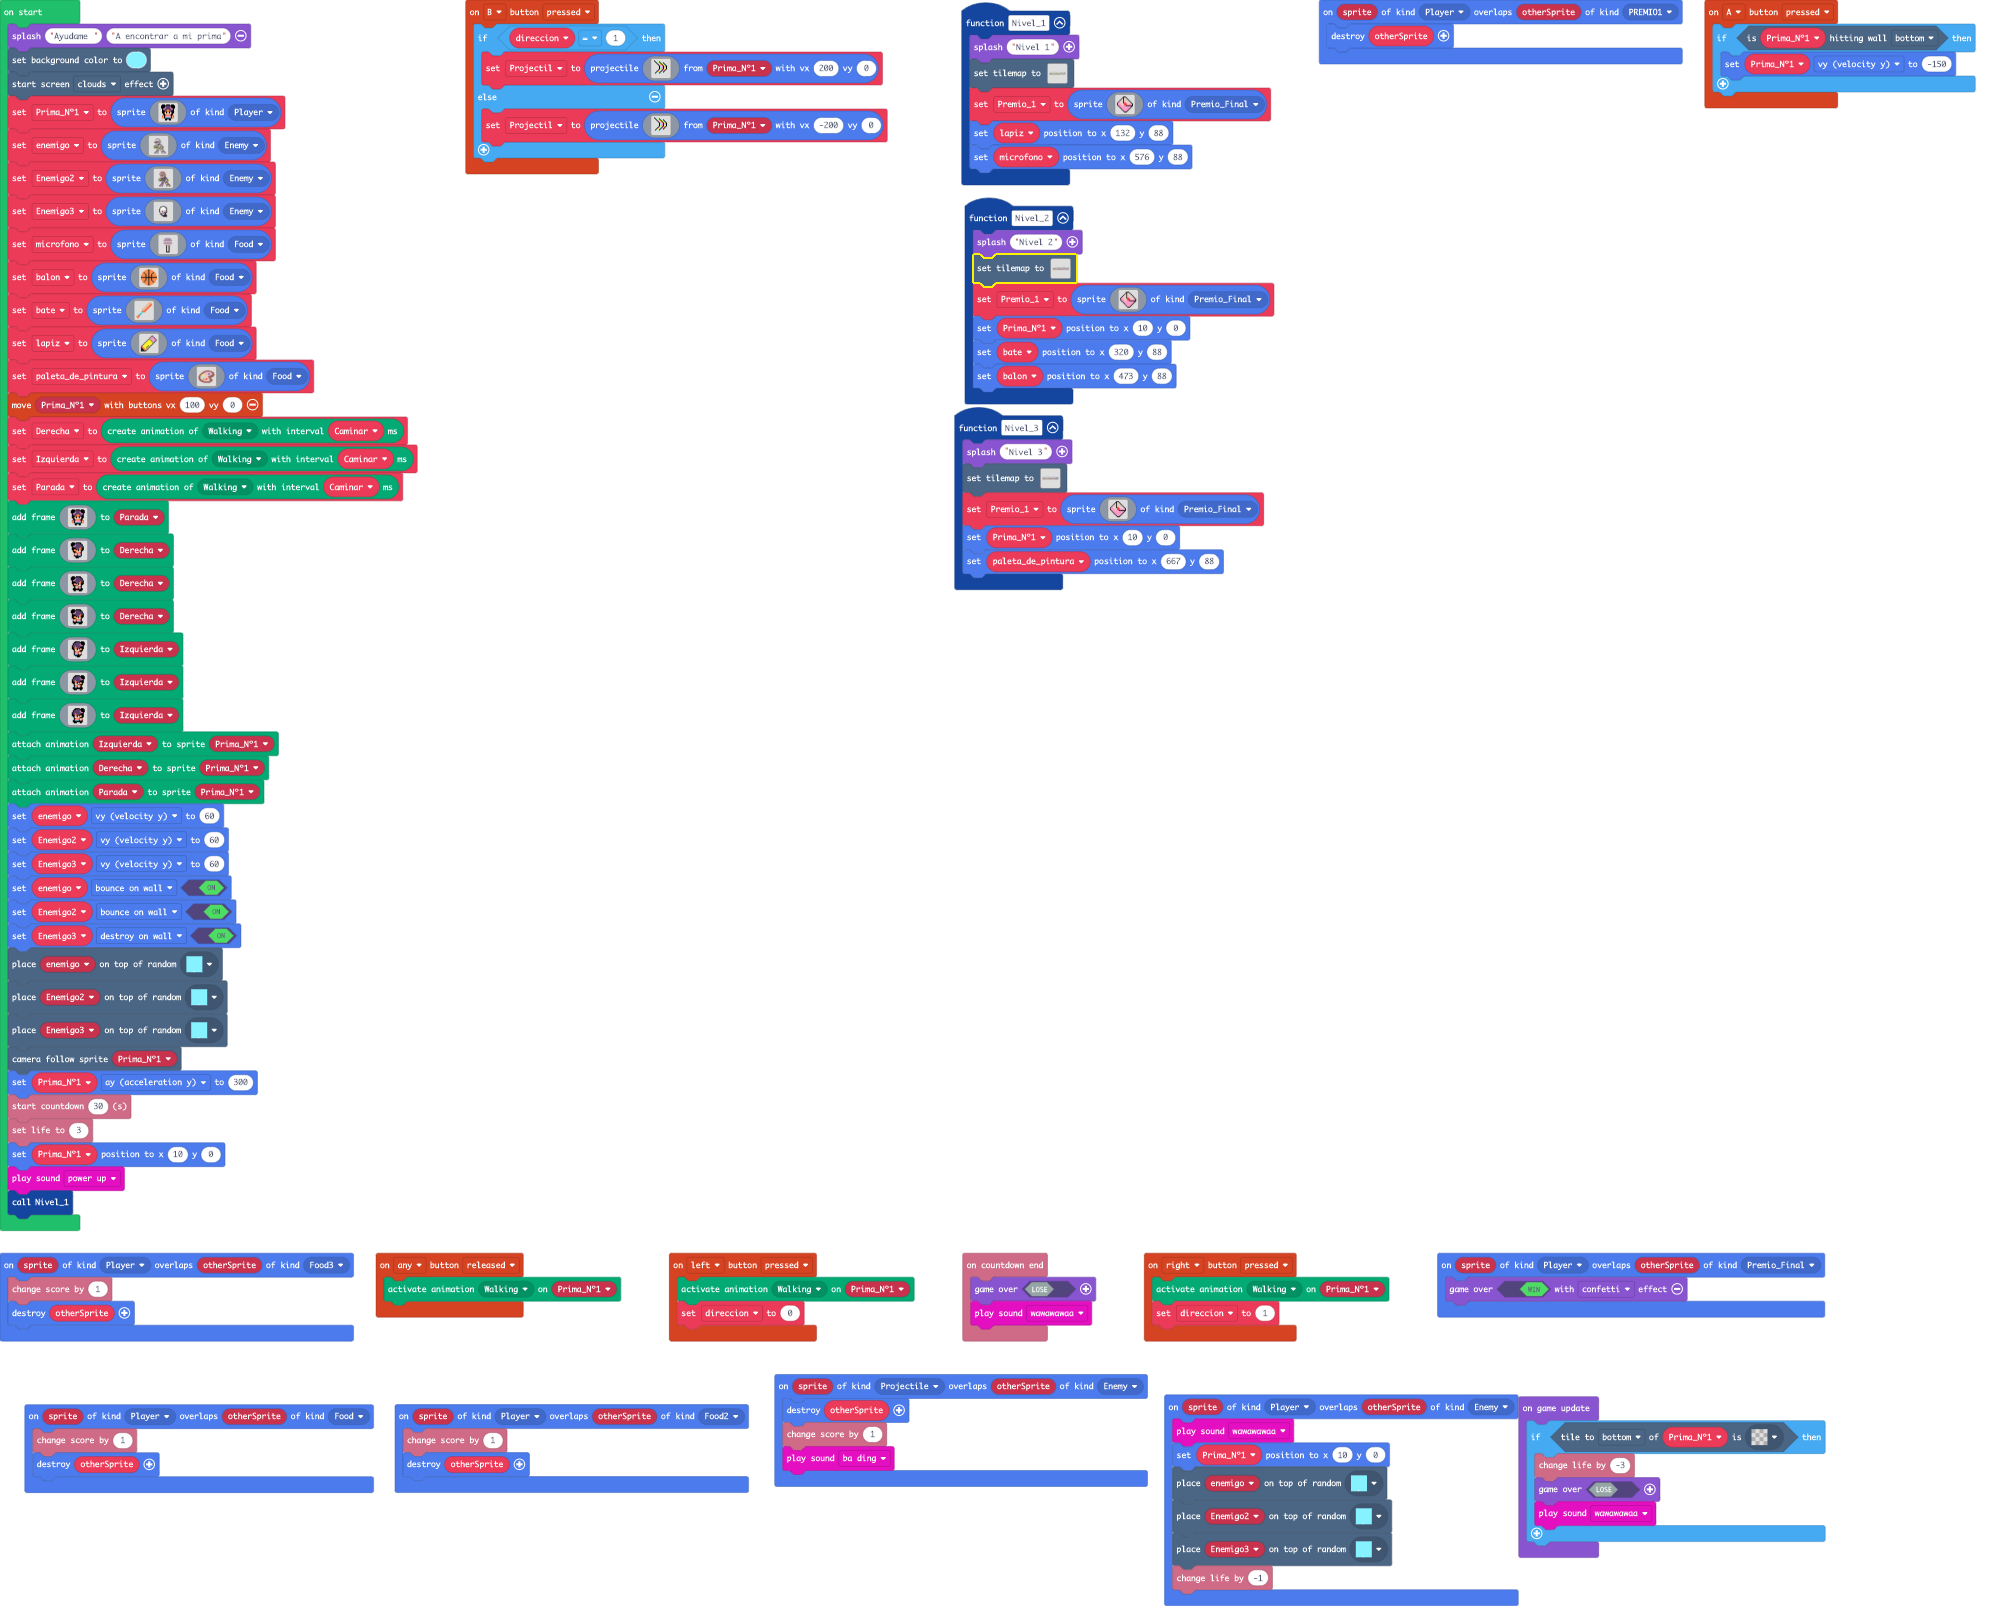
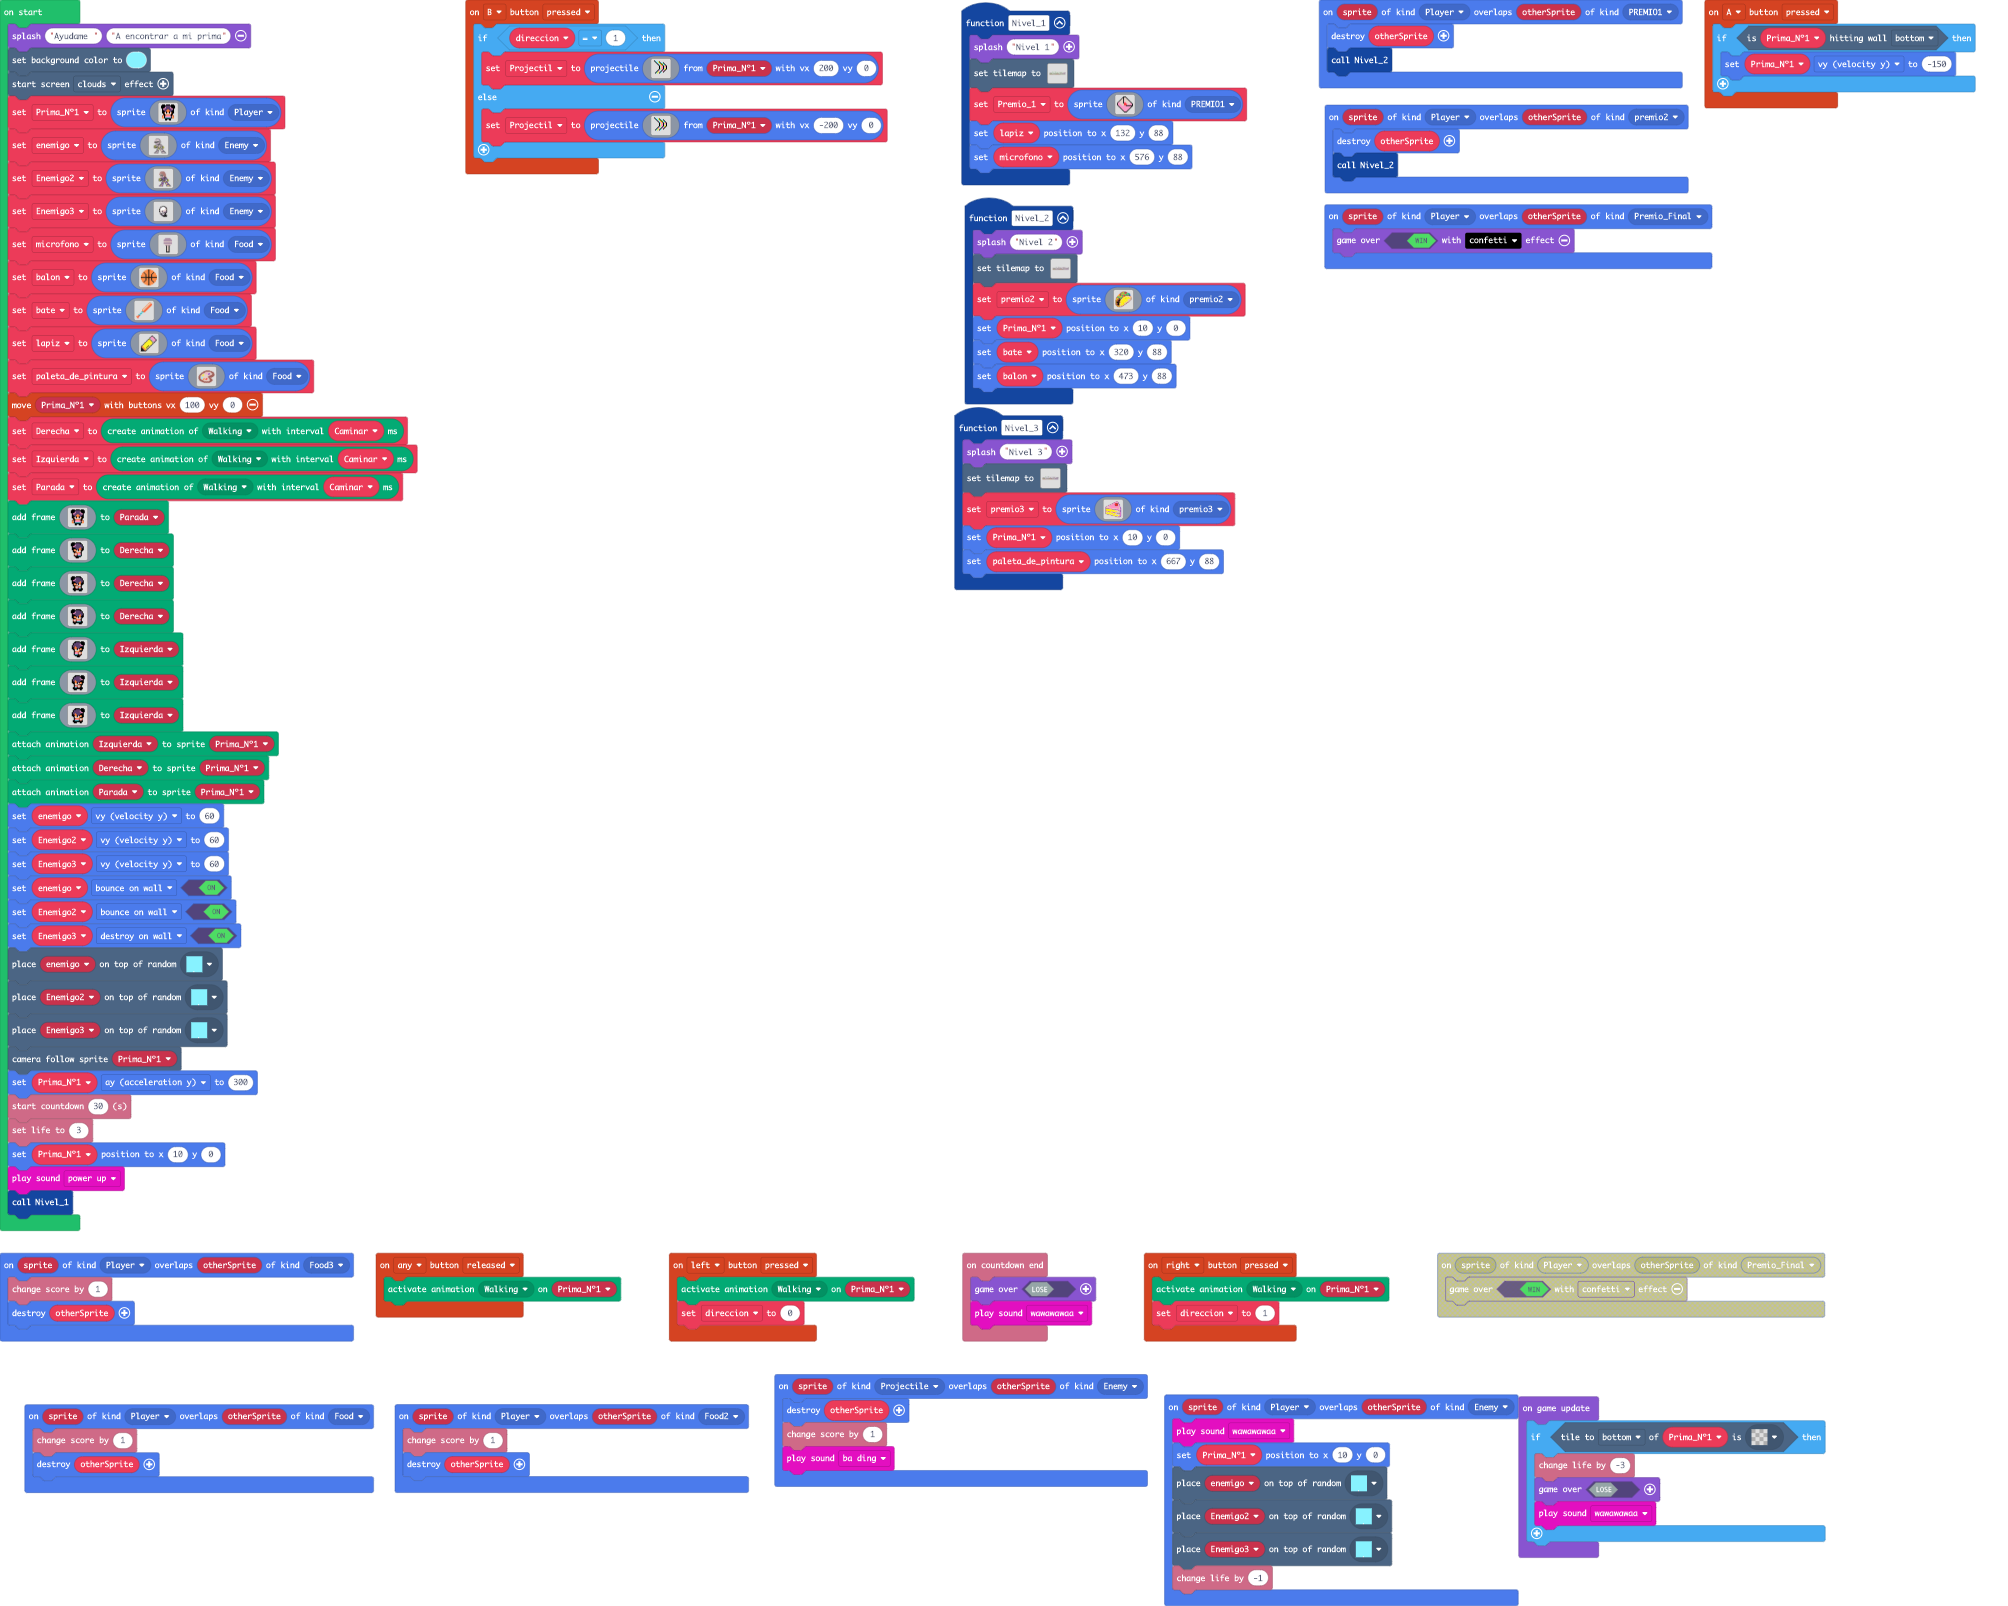
Update main.blocks, main.ts

diff --git a/main.ts b/main.ts
@@ -12,6 +12,8 @@ namespace SpriteKind {
     export const PREMIO1 = SpriteKind.create()
     export const Food2 = SpriteKind.create()
     export const Food3 = SpriteKind.create()
+    export const premio2 = SpriteKind.create()
+    export const premio3 = SpriteKind.create()
 }
 function Nivel_3 () {
     game.splash("Nivel 3")
@@ -29,26 +31,40 @@ function Nivel_3 () {
         2 2 2 2 2 2 2 2 2 2 2 2 2 2 2 2 2 2 2 2 2 2 2 2 2 2 2 2 2 2 2 2 2 2 2 2 2 2 2 2 2 2 2 2 2 . . . . . . . . . . . . . . 2 
         2 2 2 2 2 2 2 2 2 2 2 2 2 2 2 2 2 2 2 2 2 2 2 2 2 2 2 2 2 2 2 2 2 2 2 2 2 2 2 2 2 2 2 2 2 2 2 2 2 2 2 2 2 2 2 2 2 2 2 2 
         `, [myTiles.transparency16,myTiles.tile2,myTiles.tile3,myTiles.tile6,sprites.builtin.brick,sprites.dungeon.hazardSpike,myTiles.tile10,myTiles.tile11,myTiles.tile15,myTiles.tile16,myTiles.tile18,myTiles.tile20,myTiles.tile21,myTiles.tile17,myTiles.tile22,myTiles.tile23,myTiles.tile19,myTiles.tile24,myTiles.tile26,myTiles.tile28,myTiles.tile30,sprites.castle.rock0,myTiles.tile31,myTiles.tile9,myTiles.tile12,myTiles.tile13,myTiles.tile14,sprites.dungeon.darkGroundCenter], TileScale.Sixteen))
-    Premio_1 = sprites.create(img`
-        . . . . . . . f f f . . . . . . . . 
-        . . . . . . f f d d f . . . . . . . 
-        . . . . . f d f d d d f . . . . . . 
-        . . . . f d d f d d d d f . . . . . 
-        . . . f d d d f d d d d d f . . . . 
-        . . f d d d d f d d d d d d f . . . 
-        . f 3 d d d d f 3 3 d d d d d f . . 
-        f 3 3 d d d d f 2 2 3 d d d d 3 f . 
-        f 3 3 3 d d d d 2 2 2 3 d d d 3 3 f 
-        f 3 3 3 3 d d d 2 2 2 3 3 3 3 3 3 f 
-        . f 3 3 3 3 d 3 3 3 f f f f f f f f 
-        . . f 3 3 3 3 3 3 3 3 3 3 3 3 3 f . 
-        . . . f 3 3 3 3 3 3 3 3 3 3 3 f . . 
-        . . . . f 3 3 3 3 3 3 3 3 3 f . . . 
-        . . . . . f 3 3 3 3 3 3 3 f . . . . 
-        . . . . . . f 3 3 3 3 3 f . . . . . 
-        . . . . . . . f 3 3 3 f . . . . . . 
-        . . . . . . . . f f f . . . . . . . 
-        `, SpriteKind.Premio_Final)
+    premio3 = sprites.create(img`
+        . . . . . . . . . . . . . . . . . . . . . . b b b . . . . . . . 
+        . . . . . . . . . . . . . . . . . . . . b b 3 3 3 b . . . . . . 
+        . . . . . . . . . . . . . . . . . b b b 3 3 3 d 3 3 b . . . . . 
+        . . . . . . . . . . . . . . . . b b 3 3 3 3 3 3 d 3 a . . . . . 
+        . . . . . . . . . . . . . . b b 3 3 3 3 2 e e e e d b a . . . . 
+        . . . . . . . . . . . . b b b 3 3 3 3 2 3 e e e 2 e 3 a . . . . 
+        . . . . . . . . . . b b d 3 3 3 3 3 3 e 2 2 2 2 2 e d 3 a . . . 
+        . . . . . . . b b b d d 3 3 3 3 3 3 3 e 2 2 2 2 2 e d d a . . . 
+        . . . . . . b b 3 d 3 3 3 3 3 3 3 3 3 b e 2 2 2 e b 3 d 3 a . . 
+        . . . b b b 3 d d 3 3 3 3 3 3 3 3 3 3 3 b e e e b 3 3 d 3 a . . 
+        . . b 3 d d d 3 3 3 3 3 3 3 3 3 3 3 3 3 3 3 3 3 3 3 3 d d a . . 
+        b b d d d 3 3 3 3 3 3 3 3 3 3 3 3 3 3 3 3 3 3 3 3 3 3 d d 3 a . 
+        b 3 3 d d d d d d 3 3 3 3 3 3 3 3 3 3 3 3 3 3 3 3 3 3 3 d 3 a . 
+        b b 3 3 3 3 3 3 3 d d d d d 3 3 3 3 3 3 3 3 3 3 3 3 3 3 d d a . 
+        b b b b b b b 3 3 3 d d 3 3 d d d d d d d d d d 3 3 3 3 d d b a 
+        b 5 5 5 5 3 b b b b b b 3 3 3 3 d d 3 3 3 3 3 d d d 3 3 d d 3 a 
+        b 5 5 5 5 5 5 5 5 5 5 5 3 b b b b b b b b 3 3 3 3 3 d d d d 3 a 
+        b d 5 5 5 5 5 5 5 5 5 5 5 5 5 5 5 d d d b a a a a a b 3 d 3 b a 
+        b b 5 5 5 5 5 5 5 5 5 5 5 5 5 5 5 5 5 d d d d d d d b b 3 3 b a 
+        b 3 b b 3 5 5 5 5 5 5 5 5 5 5 d 5 5 5 5 d 5 5 d d d d d b b b a 
+        b 3 3 3 3 3 b b b 3 5 5 d d 5 5 5 5 5 d 5 5 5 d d d d d d b b a 
+        b 5 5 5 5 d 3 3 3 3 3 3 b b b 3 5 d d d d d d 5 5 d d d d b b a 
+        b 5 d 5 5 5 d d 5 5 5 3 3 3 3 b b b b b 3 d d d d d d d d b 3 a 
+        b 5 d 5 5 5 5 5 5 5 5 5 5 5 5 d d 3 3 3 3 b b b b b b 3 d b 3 a 
+        b d 5 d 5 5 5 5 5 5 d 5 5 5 5 5 d d 5 5 5 d d b b b b b b b 3 a 
+        b b b 5 5 d d 5 5 5 5 5 5 5 5 5 5 5 5 5 5 5 d d d d d d b b 3 a 
+        . . . b b b b d d 5 5 5 d d d 5 5 5 5 d d d d d d d d d d b 3 a 
+        . . . . . . . b b b b 5 5 5 5 5 5 d 5 d d d 5 d d d d d d b 3 a 
+        . . . . . . . . . . . b b b b 5 5 5 5 5 5 5 5 5 5 5 d d 5 3 3 a 
+        . . . . . . . . . . . . . . . b b b b d d d 5 d 5 5 d 5 b 3 b a 
+        . . . . . . . . . . . . . . . . . . . b b b b d d d d b 3 b a . 
+        . . . . . . . . . . . . . . . . . . . . . . . b b b a a a a . . 
+        `, SpriteKind.premio3)
     Prima_Nº1.setPosition(10, 0)
     paleta_de_pintura.setPosition(667, 88)
 }
@@ -128,12 +144,13 @@ function Nivel_1 () {
         . . . . . . f 3 3 3 3 3 f . . . . . 
         . . . . . . . f 3 3 3 f . . . . . . 
         . . . . . . . . f f f . . . . . . . 
-        `, SpriteKind.Premio_Final)
+        `, SpriteKind.PREMIO1)
     lapiz.setPosition(132, 88)
     microfono.setPosition(576, 88)
 }
 sprites.onOverlap(SpriteKind.Player, SpriteKind.PREMIO1, function (sprite, otherSprite) {
     otherSprite.destroy()
+    Nivel_2()
 })
 controller.A.onEvent(ControllerButtonEvent.Pressed, function () {
     if (Prima_Nº1.isHittingTile(CollisionDirection.Bottom)) {
@@ -178,26 +195,40 @@ function Nivel_2 () {
         2 2 2 2 2 2 2 2 2 2 2 2 2 2 2 2 2 2 2 2 2 2 2 2 2 2 2 2 2 2 2 2 2 2 2 2 2 2 2 2 2 2 2 2 2 . . . . . . . . . . . . . . 2 
         2 2 2 2 2 2 2 2 2 2 2 2 2 2 2 2 2 2 2 2 2 2 2 2 2 2 2 2 2 2 2 2 2 2 2 2 2 2 2 2 2 2 2 2 2 2 2 2 2 2 2 2 2 2 2 2 2 2 2 2 
         `, [myTiles.transparency16,myTiles.tile2,myTiles.tile3,myTiles.tile6,sprites.builtin.brick,sprites.dungeon.hazardSpike,myTiles.tile10,myTiles.tile11,myTiles.tile15,myTiles.tile16,myTiles.tile18,myTiles.tile20,myTiles.tile21,myTiles.tile17,myTiles.tile22,myTiles.tile23,myTiles.tile19,myTiles.tile24,myTiles.tile26,myTiles.tile27,myTiles.tile28,myTiles.tile30,sprites.castle.rock0,myTiles.tile31,myTiles.tile9,myTiles.tile12,myTiles.tile13,myTiles.tile14,sprites.builtin.oceanDepths0,sprites.builtin.oceanDepths3,sprites.builtin.oceanDepths4], TileScale.Sixteen))
-    Premio_1 = sprites.create(img`
-        . . . . . . . f f f . . . . . . . . 
-        . . . . . . f f d d f . . . . . . . 
-        . . . . . f d f d d d f . . . . . . 
-        . . . . f d d f d d d d f . . . . . 
-        . . . f d d d f d d d d d f . . . . 
-        . . f d d d d f d d d d d d f . . . 
-        . f 3 d d d d f 3 3 d d d d d f . . 
-        f 3 3 d d d d f 2 2 3 d d d d 3 f . 
-        f 3 3 3 d d d d 2 2 2 3 d d d 3 3 f 
-        f 3 3 3 3 d d d 2 2 2 3 3 3 3 3 3 f 
-        . f 3 3 3 3 d 3 3 3 f f f f f f f f 
-        . . f 3 3 3 3 3 3 3 3 3 3 3 3 3 f . 
-        . . . f 3 3 3 3 3 3 3 3 3 3 3 f . . 
-        . . . . f 3 3 3 3 3 3 3 3 3 f . . . 
-        . . . . . f 3 3 3 3 3 3 3 f . . . . 
-        . . . . . . f 3 3 3 3 3 f . . . . . 
-        . . . . . . . f 3 3 3 f . . . . . . 
-        . . . . . . . . f f f . . . . . . . 
-        `, SpriteKind.Premio_Final)
+    premio2 = sprites.create(img`
+        . . . . . . . . . . . . . . e e e e e e e . . . . . . . . . . . 
+        . . . . . . . . . . . . e e 4 5 5 6 6 2 e 2 e . . . . . . . . . 
+        . . . . . . . . . . e e 4 5 5 5 6 7 2 3 e 2 6 8 8 . . . . . . . 
+        . . . . . . . . . e 4 6 7 7 6 6 7 7 2 3 2 e 7 7 7 6 6 8 . . . . 
+        . . . . . . . . e 4 6 7 4 5 5 5 4 7 7 2 2 2 7 7 7 6 7 7 8 . . . 
+        . . . . . . . 4 4 4 8 7 4 4 4 4 4 7 7 7 7 6 6 7 7 7 6 7 8 . . . 
+        . . . . . . 4 5 2 2 e 7 7 7 7 7 7 6 7 7 7 7 6 6 6 7 6 6 6 8 . . 
+        . . . . . 4 5 2 3 2 2 7 7 6 6 7 2 2 e 6 6 6 e e e e e 8 8 8 . . 
+        . . . . 4 5 5 2 3 2 e 7 6 6 7 2 3 2 2 e 4 5 5 5 d d d d 4 8 . . 
+        . . . 4 4 5 6 7 7 7 7 5 5 4 6 2 3 e 4 5 5 d d d d d d d d d 4 . 
+        . . . e 6 6 7 7 4 5 5 4 4 7 7 e 4 5 5 d d d d 5 5 5 5 4 d d 4 4 
+        . . e 4 6 7 7 7 4 4 4 6 7 7 e 5 5 d d 5 5 5 5 5 d 5 5 d d d d 4 
+        . . e 5 6 6 8 6 7 7 6 6 6 e 5 d d 5 5 5 5 5 5 5 5 5 5 5 5 d d e 
+        . e 4 5 5 4 4 e 8 7 7 6 e 5 d 5 5 5 5 5 4 5 5 5 5 5 5 5 5 5 d e 
+        . e 5 5 4 e e e e 6 6 e 5 d 5 5 5 5 d 5 5 5 5 5 d d d d 5 4 d e 
+        . e 5 5 e e 4 4 f e e 5 d 5 d 5 5 5 5 5 5 d 5 d 5 d d d d d d e 
+        e 4 5 4 e e e e f e 4 5 d 5 5 5 5 5 5 5 5 5 5 5 d d 4 d d d e . 
+        e 5 e 4 e e f f f e 5 d 5 5 5 5 5 5 5 5 d 5 5 5 5 d d d d e . . 
+        e 5 e e 4 e e f f 4 5 d 5 5 5 5 5 5 5 5 5 5 5 5 d d d d e . . . 
+        e 5 e e e e f f e 5 d 5 5 d 5 5 5 d 5 5 5 5 d 5 d d d e . . . . 
+        e 5 f f e f e e e 5 d 5 5 5 4 5 5 5 5 5 5 5 d d d 4 e . . . . . 
+        e 5 f f f f f f e 5 4 5 5 5 5 5 5 5 d 5 d 4 d d e e . . . . . . 
+        e 5 4 e f e f f 4 5 d 5 5 d 5 5 5 5 5 d d d d e . . . . . . . . 
+        e 5 e e e f f e 5 d d 5 5 5 5 5 4 5 d d d e e . . . . . . . . . 
+        e 4 e e e f f f 5 d 5 5 5 5 d 5 5 d d d e . . . . . . . . . . . 
+        e 4 e f e f f f 5 d 5 d 5 5 5 5 5 d 4 e . . . . . . . . . . . . 
+        . e 4 e f f f e 5 d 5 5 5 5 5 5 d e e . . . . . . . . . . . . . 
+        . e 5 4 e e e e 5 d 5 4 5 d d 4 e . . . . . . . . . . . . . . . 
+        . . e 5 5 4 e e 5 d d d d d e e . . . . . . . . . . . . . . . . 
+        . . . e e 5 5 4 4 d d d e e . . . . . . . . . . . . . . . . . . 
+        . . . . . e e e e e e e . . . . . . . . . . . . . . . . . . . . 
+        . . . . . . . . . . . . . . . . . . . . . . . . . . . . . . . . 
+        `, SpriteKind.premio2)
     Prima_Nº1.setPosition(10, 0)
     bate.setPosition(320, 88)
     balon.setPosition(473, 88)
@@ -205,6 +236,10 @@ function Nivel_2 () {
 sprites.onOverlap(SpriteKind.Player, SpriteKind.Food, function (sprite, otherSprite) {
     info.changeScoreBy(1)
     otherSprite.destroy()
+})
+sprites.onOverlap(SpriteKind.Player, SpriteKind.premio2, function (sprite, otherSprite) {
+    otherSprite.destroy()
+    Nivel_2()
 })
 sprites.onOverlap(SpriteKind.Player, SpriteKind.Food2, function (sprite, otherSprite) {
     info.changeScoreBy(1)
@@ -223,9 +258,11 @@ sprites.onOverlap(SpriteKind.Player, SpriteKind.Enemy, function (sprite, otherSp
     tiles.placeOnRandomTile(Enemigo3, myTiles.tile7)
     info.changeLifeBy(-1)
 })
+let premio2: Sprite = null
+let Premio_1: Sprite = null
 let Projectil: Sprite = null
 let direccion = 0
-let Premio_1: Sprite = null
+let premio3: Sprite = null
 let Caminar = 0
 let paleta_de_pintura: Sprite = null
 let lapiz: Sprite = null
